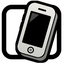
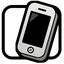
Match the phone HUD square frame to stock weapon artwork.

diff --git a/valkyrie-asi-suite/valkyrie-phone/tools/generate-weapon-icon.py b/valkyrie-asi-suite/valkyrie-phone/tools/generate-weapon-icon.py
@@ -1,16 +1,51 @@
 """Prepare our original phone drawing using stock SA weapon icon settings.
 
-The stock hud.txd fist is 64x64 and DXT3. Keep our original artwork; resize
-with area filtering and compress its alpha/colour with the same DXT format.
+The stock hud.txd fist is 64x64 and DXT3, with a three-pixel square frame.
+Retain the original handset pixels and replace only its heavier HQ square.
 Requires Pillow with DXT3 encoding support (12.1 or newer).
 """
 from pathlib import Path
-from PIL import Image
+from PIL import Image, ImageDraw, ImageFilter
+
+
+def handset_mask(image):
+    # The frame is pure black. The convex hull of the coloured handset
+    # encloses its black screen and details; eight source pixels retain
+    # its original black contour. No generated/redrawn handset is used.
+    points = sorted((x, y) for y in range(image.height) for x in range(image.width)
+                    if (lambda p: p[3] > 128 and max(p[:3]) > 32)(image.getpixel((x, y))))
+    def cross(o, a, b):
+        return (a[0] - o[0]) * (b[1] - o[1]) - (a[1] - o[1]) * (b[0] - o[0])
+    lower, upper = [], []
+    for point in points:
+        while len(lower) >= 2 and cross(lower[-2], lower[-1], point) <= 0:
+            lower.pop()
+        lower.append(point)
+    for point in reversed(points):
+        while len(upper) >= 2 and cross(upper[-2], upper[-1], point) <= 0:
+            upper.pop()
+        upper.append(point)
+    mask = Image.new("L", image.size)
+    ImageDraw.Draw(mask).polygon(lower[:-1] + upper[:-1], fill=255)
+    return mask.filter(ImageFilter.MaxFilter(17))
+
+
+def hud_art(image):
+    # Source artwork is 256px. Twelve source pixels become the stock
+    # three-pixel frame at 64px. Its outer bounds remain in place.
+    assert image.size == (256, 256)
+    handset = image.copy()
+    handset.putalpha(Image.composite(image.getchannel("A"), Image.new("L", image.size), handset_mask(image)))
+    framed = Image.new("RGBA", image.size)
+    ImageDraw.Draw(framed).rounded_rectangle((7, 20, 245, 237), radius=41,
+                                             outline=(0, 0, 0, 255), width=12)
+    framed.alpha_composite(handset)
+    return framed.resize((64, 64), Image.Resampling.LANCZOS)
+
 
 if __name__ == "__main__":
     assets = Path(__file__).resolve().parents[1] / "assets/weapon-icon"
-    image = Image.open(assets / "phone-source.png").convert("RGBA")
-    image = image.resize((64, 64), Image.Resampling.LANCZOS)
+    image = hud_art(Image.open(assets / "phone-source.png").convert("RGBA"))
     image.save(assets / "phone.png")
     image.save(assets / "phone.dds", pixel_format="DXT3")
-    print("Wrote phone.png and phone.dds: 64x64, stock SA DXT3 compression.")
+    print("Wrote phone.png and phone.dds: 64x64 DXT3, stock three-pixel square frame.")

diff --git a/valkyrie-asi-suite/valkyrie-phone/assets/weapon-icon/CREDITS.md b/valkyrie-asi-suite/valkyrie-phone/assets/weapon-icon/CREDITS.md
@@ -2,7 +2,8 @@
 
 `phone-source.png` is our own original inventory phone artwork, made by
 valkyrie-inventory's make-phone-icon.py. `tools/generate-weapon-icon.py`
-prepares a 64x64 PNG and DXT3-compressed DDS, matching the dimensions and
+retains the original handset pixels and draws a stock three-pixel square
+frame, then prepares a 64x64 PNG and DXT3-compressed DDS, matching the dimensions and
 compression of the stock San Andreas fist in `hud.txd`.
 
 `make-phone-weapon.ps1` packs the DDS into `valkyriephone.txd` for the optional
